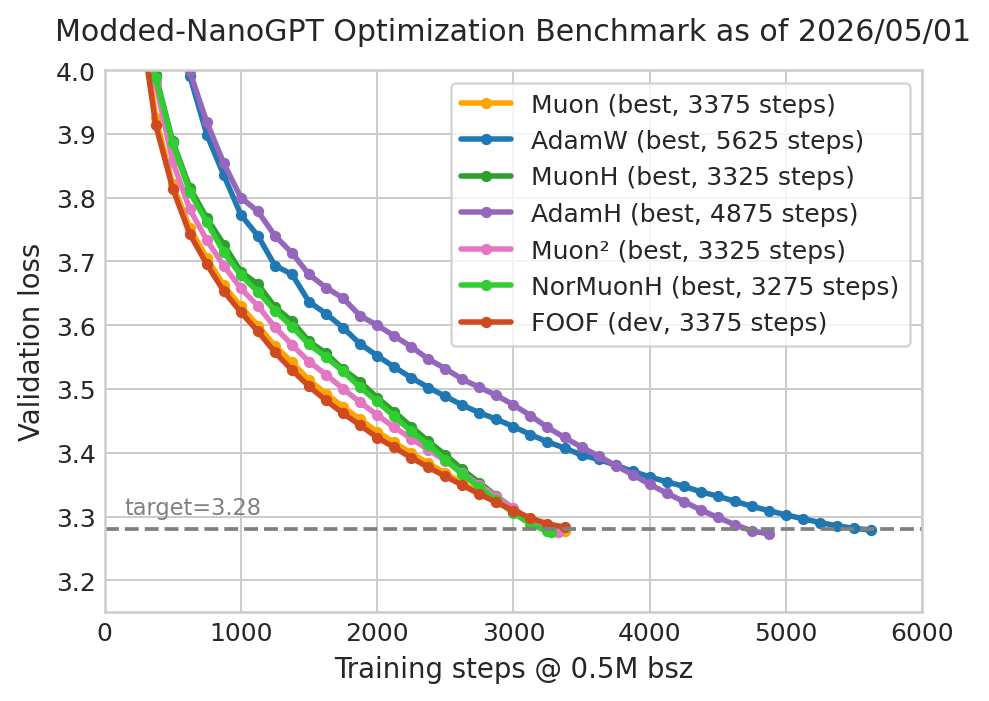
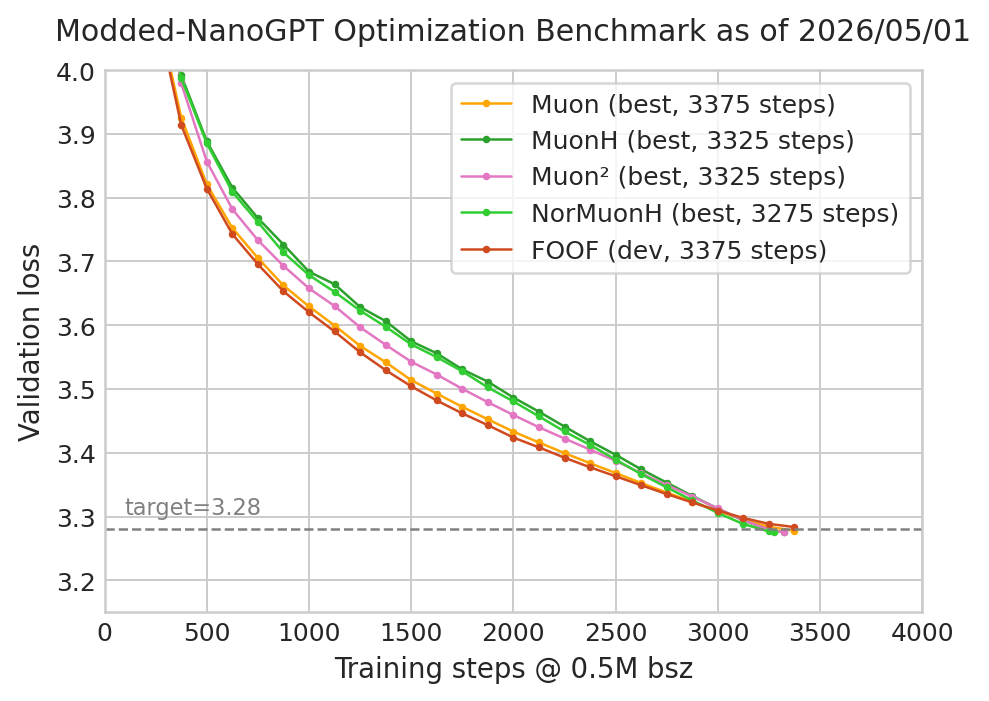
make figure nicer

diff --git a/records/track_3_optimization/make_figure.py b/records/track_3_optimization/make_figure.py
@@ -5,9 +5,9 @@ import matplotlib.pyplot as plt
 runs = {
     #'Muon (old best, 3500 steps)': ('311d7833-8dfc-43ea-a55c-fd313a11c4a8', '#d04a1f'),
     'Muon (best, 3375 steps)': ('51ece938-03c5-4343-8dcc-3f3336b07008', '#ffa500'),
-    'AdamW (best, 5625 steps)': ('a63a68d1-24aa-4a22-af9a-224e43209ea4', '#1f77b4'),
+    # 'AdamW (best, 5625 steps)': ('a63a68d1-24aa-4a22-af9a-224e43209ea4', '#1f77b4'),
     'MuonH (best, 3325 steps)': ('20260430_muonh/9319c798-6643-464a-b407-b05468e468f5', '#2ca02c'),
-    'AdamH (best, 4875 steps)': ('20260430_adamh/7533dd87-107f-4a4f-8229-acbec0fb00ac', '#9467bd'),
+    # 'AdamH (best, 4875 steps)': ('20260430_adamh/7533dd87-107f-4a4f-8229-acbec0fb00ac', '#9467bd'),
     'Muon² (best, 3325 steps)': ('20260501_muonsq/bb903816-ea27-4f5f-8028-c963d38c6a7f', '#e377c2'),
     'NorMuonH (best, 3275 steps)': ('20260430_normuonh/f45b5dcf-16bb-4e83-b5c7-4ef4981f0e9f', '#32CD32'),
     'FOOF (dev, 3375 steps)': ('c718fa98-d45f-4b24-a01f-a6a0559c6a31', '#d04a1f'),
@@ -42,13 +42,13 @@ for label, (logfile, color) in runs.items():
         steps,
         losses,
         marker='o',
-        markersize=3.5,
-        linewidth=2.2,
+        markersize=2.0,
+        linewidth=1.0,
         label=label,
         color=color,
     )
 
-ax.axhline(3.28, color='gray', linestyle='--', linewidth=1.5)
+ax.axhline(3.28, color='gray', linestyle='--', linewidth=1.0)
 ax.annotate(
     'target=3.28',
     xy=(0, 3.28),

diff --git a/records/track_3_optimization/sweep.py b/records/track_3_optimization/sweep.py
@@ -16,10 +16,8 @@ nproc_per_node = 8
 log_dir = "logs"
 
 grid_blocks = [
-    {},
-    # {"lr": [0.01, 0.02, 0.04]},
-    # {"fw_alpha_method": ["first_fw"]},
-    # {"lr": [0.01, 0.02], "fw_alpha_mult": [1.0, 2.0]},
+    # {"lr": [0.01, 0.03]},
+    {""}
 ]
 
 